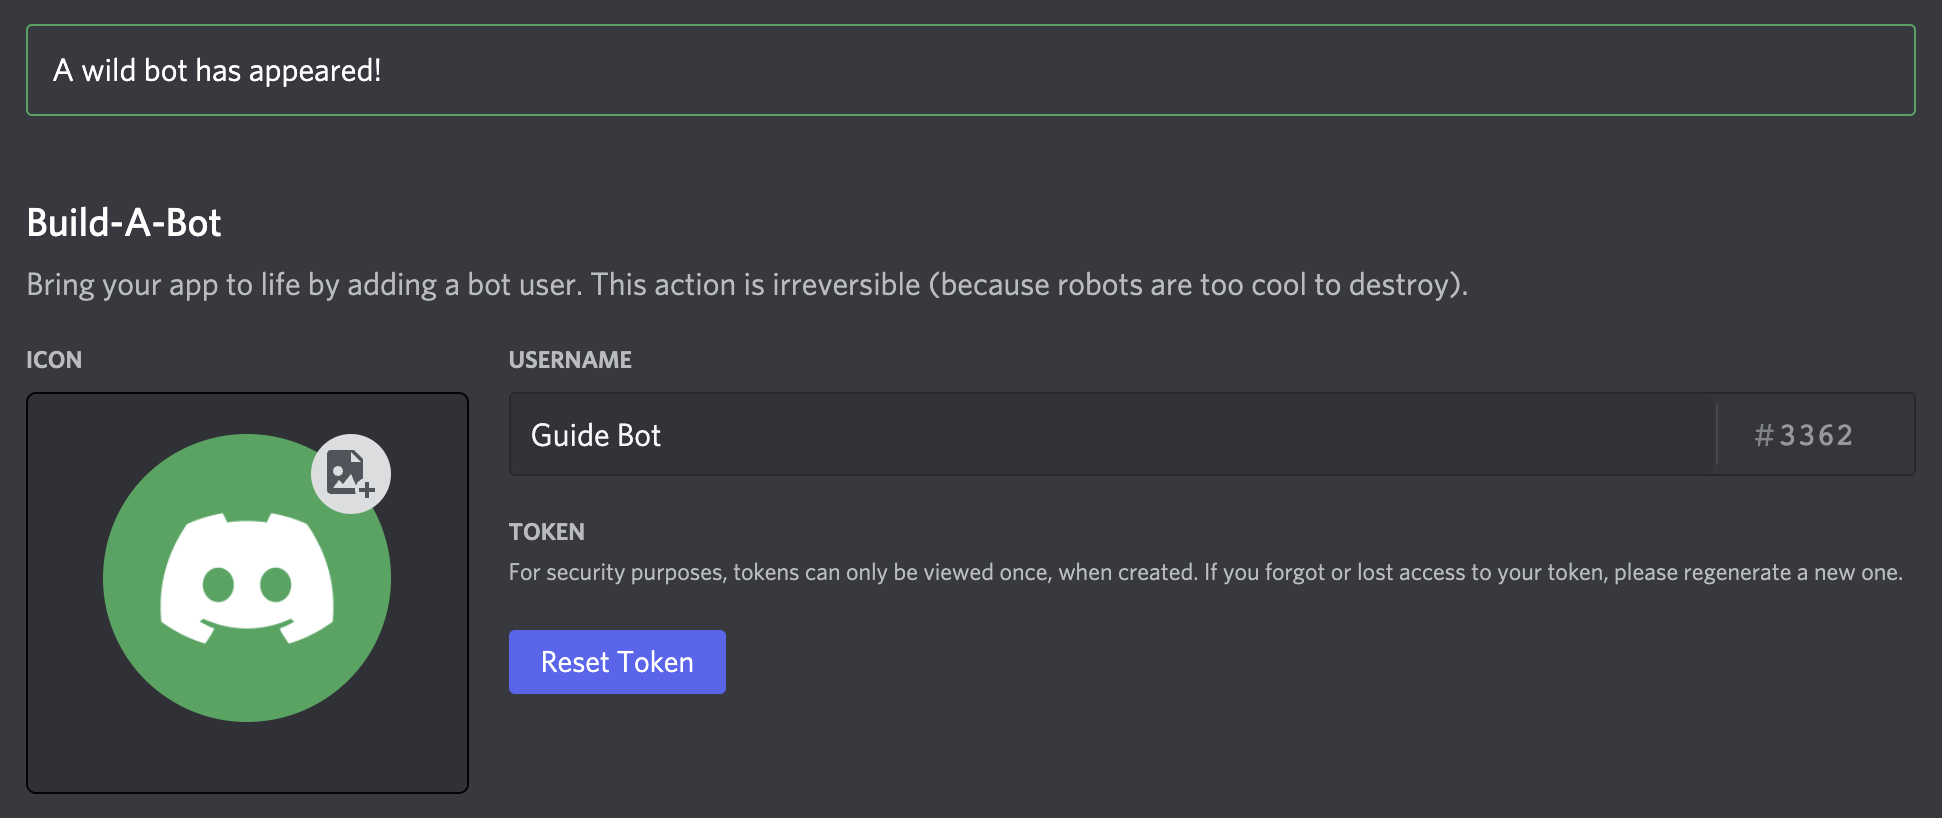
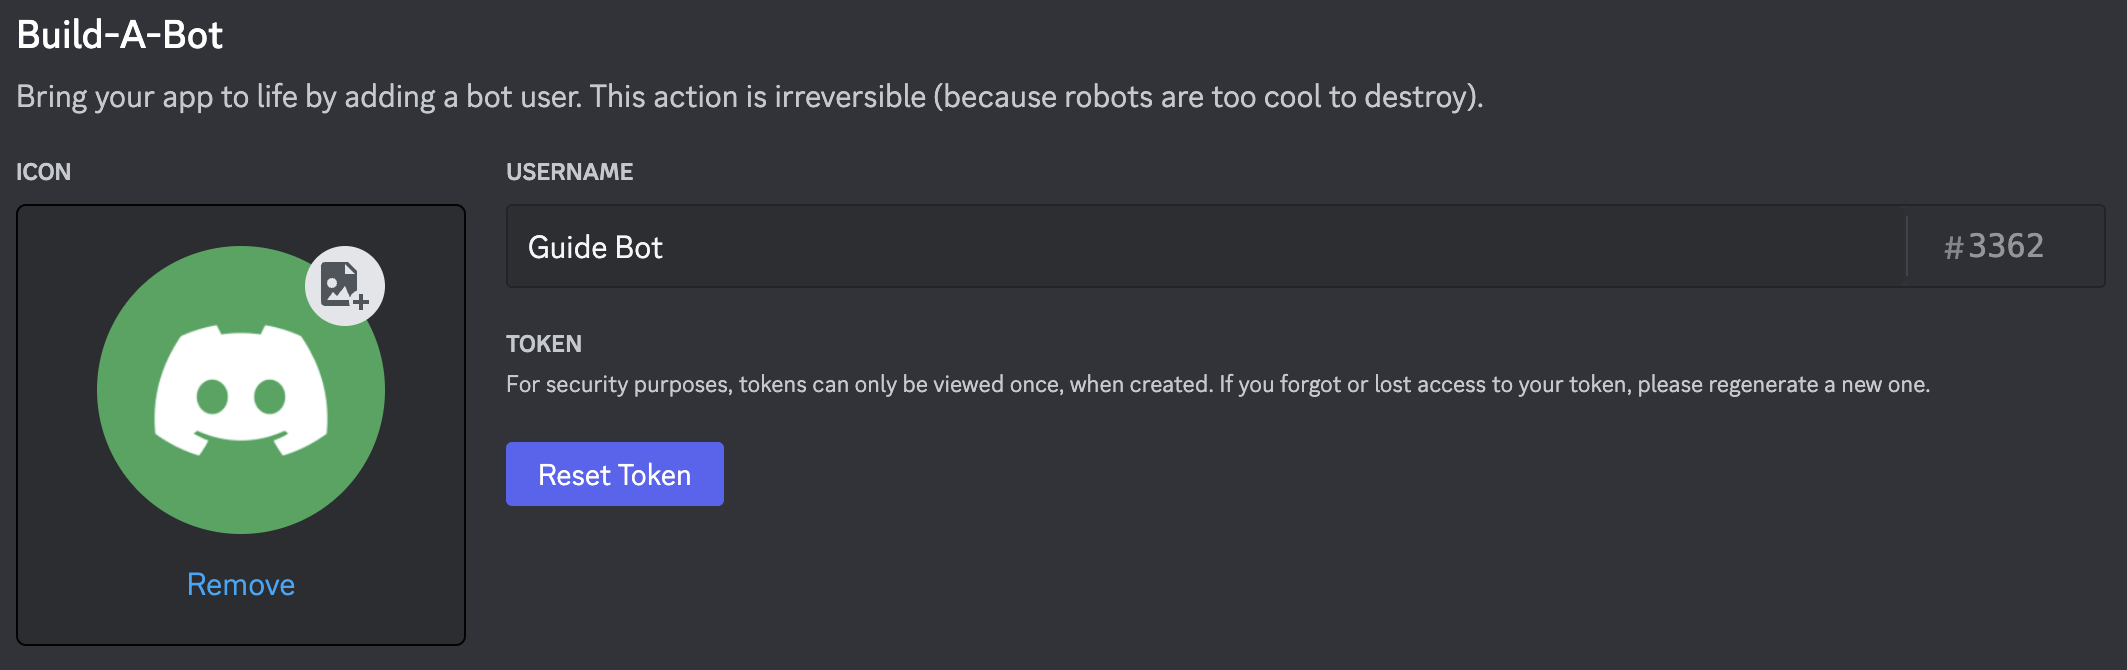
refactor(create-your-bot): bots are always created now (#1522)

diff --git a/guide/preparations/setting-up-a-bot-application.md b/guide/preparations/setting-up-a-bot-application.md
@@ -14,11 +14,7 @@ You should see a page like this:
 
 ![Successfully created application](./images/create-app.png)
 
-You can edit your application's name, description, and avatar here. Once you've saved your changes, move on by selecting the "Bot" tab in the left panel.
-
-![Create a bot UI](./images/create-bot.png)
-
-Click the "Add Bot" button on the right and confirm the pop-up window by clicking "Yes, do it!". Congratulations, you're now the proud owner of a shiny new Discord bot! You're not entirely done, though.
+You can edit your application's name, description, and avatar here. Once you've done that, then congratulations—you're now the proud owner of a shiny new Discord bot! You're not entirely done, though.
 
 ## Your bot's token
 
